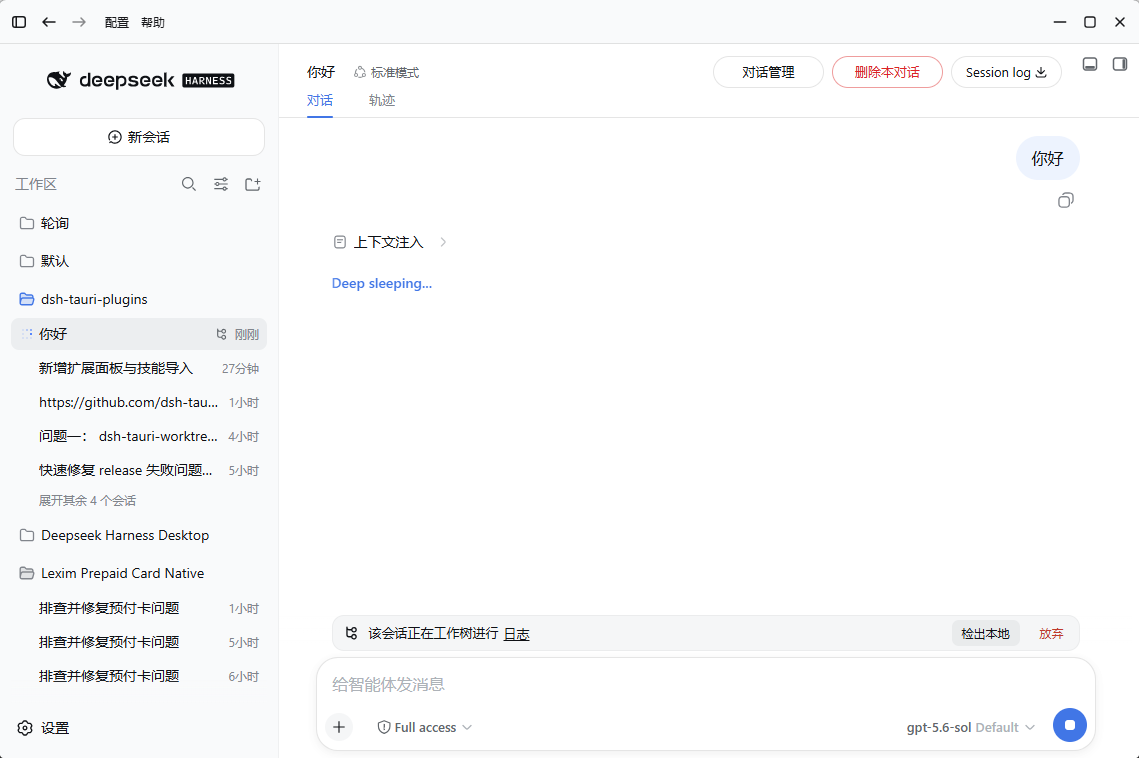
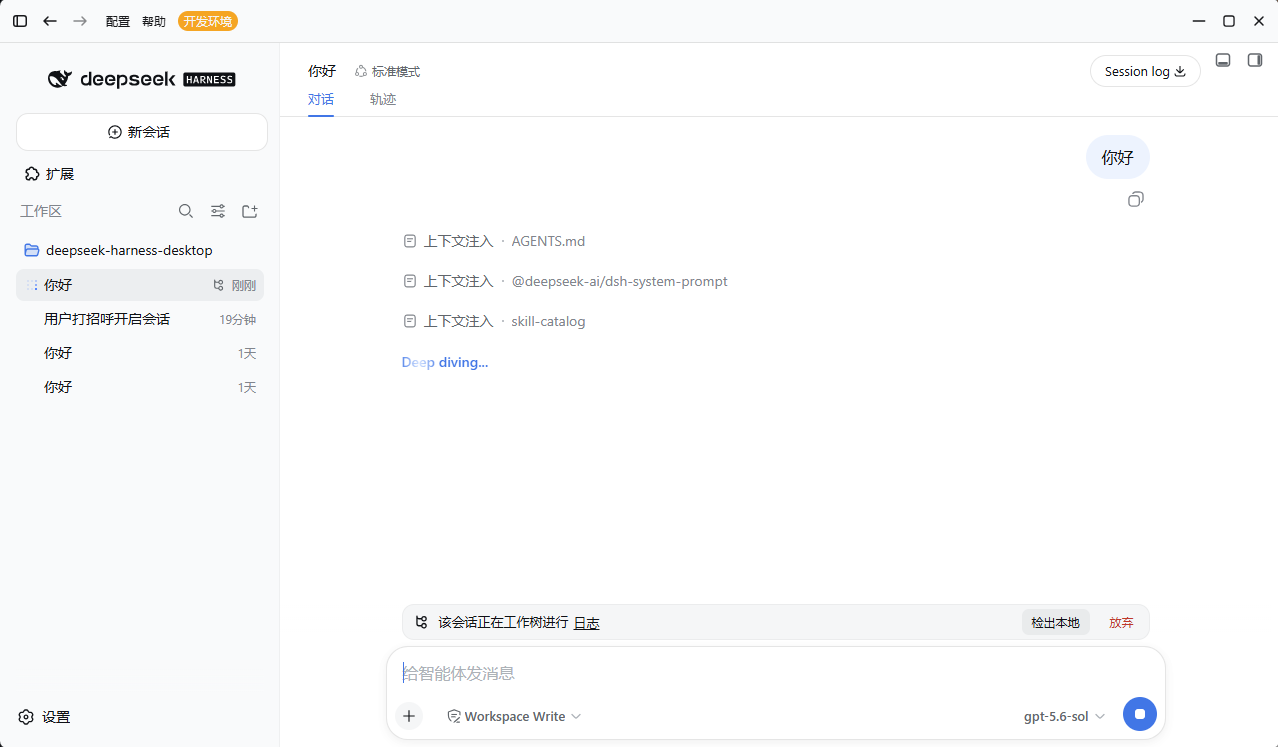
chore: update readme

diff --git a/README.md b/README.md
@@ -31,24 +31,13 @@
 
 <table>
   <tr>
-    <td><img src="docs/images/previews/preview-0.png" alt="preview" width="300" /></td>
-    <td><img src="docs/images/previews/preview-1.png" alt="preview session" width="300" /></td>
-    <td><img src="docs/images/previews/preview-2.png" alt="preview 1" width="300" /></td>
-    <td><img src="docs/images/previews/preview-3.png" alt="preview 2" width="300" /></td>
-    <td><img src="docs/images/previews/preview-4.png" alt="preview 3" width="300" /></td>
-    <td><img src="docs/images/previews/preview-5.png" alt="preview 4" width="300" /></td>
-    <td><img src="docs/images/previews/preview-6.png" alt="preview 4" width="300" /></td>
-    <td><img src="docs/images/previews/preview-7.png" alt="preview 4" width="300" /></td>
-    <td><img src="docs/images/previews/preview-8.png" alt="preview 4" width="300" /></td>
+    <td><a href="docs/PREVIEW.md"><img src="./docs/images/previews/preview-1.png" alt="preview 1" /></a></td>
+    <td><a href="docs/PREVIEW.md"><img src="/docs/images/previews/preview-2.png" alt="preview 2" /></a></td>
+    <td><a href="docs/PREVIEW.md"><img src="/docs/images/previews/preview-4.png" alt="preview 4" /></a></td>
+    <td><a href="docs/PREVIEW.md"><img src="/docs/images/previews/preview-5.png" alt="preview 5" /></a></td>
   </tr>
 </table>
 
-## 功能
-
-- ⚡ **零环境** — 首次启动无须 Node 运行时与 Harness 内核；默认使用本地环境，不修改已有的系统环境。
-- 🔄 **内核更新** — 应用内同步上游最新 Harness 版本，无需重装即生效；支持多版本核心管理。
-- 🖥 **应用配置** — 统一的配置对话框（调试 / 档案 / 插件 / 核心），界面按钮中英双语本地化，并适配暗色模式。
-- 🗂 **档案隔离** — 在应用配置彼此隔离的档案，插件、补丁与设置各自独立，互不干扰。
 - 🧩 **插件管理** — 插件面板管理已安装插件，出现异常时提供升级 / 卸载入口，错误详情。
 - 🎁 **内置插件** — 随安装包内置插件，以及将来引入更多高质量的内置插件。
 - 🪶 **原生轻量** — Tauri 2 外壳（非 Electron）：更小的安装包、更低的内存占用、原生窗口。
@@ -76,19 +65,8 @@
 - [DSH Tauri UI](https://github.com/dsh-tauri-desk/dsh-tauri-ui) — 为 Tauri 2 外壳提供自定义设置侧边栏
 - [DSH Tauri Worktree](https://github.com/dsh-tauri-desk/dsh-tauri-worktree) — 为每个会话创建隔离的 Git Worktree，并支持检出到本地分支或归档放弃
 - [DSH Tauri Panel](https://github.com/dsh-tauri-desk/dsh-tauri-plugins/tree/main/packages/dsh-tauri-panel) — 侧栏外壳、面板协议
-- [DSH Tauri Panel Extension](https://github.com/dsh-tauri-desk/dsh-tauri-plugins/tree/main/packages/dsh-tauri-panel-extension) — 技能与 MCP 管理
-
-## 快速开始
-
-从 [Releases](https://github.com/hairyf/deepseek-harness-desktop/releases) 下载对应平台安装包，安装后启动即可。
-
-**macOS（Homebrew）：** 也可通过 Homebrew 一键安装：
-
-```bash
-brew install dsh-tauri-desk/desktop/deepseek-harness
-```
-
-首次运行会下载 Node 运行时与 Harness 内核（如已经安装 `dsh` ，则使用安装版本），随后直接进入 `http://127.0.0.1:3080` 的 Harness 界面；此后完全本地运行，无需联网。
+- [DSH Tauri Panel Extension](https://github.com/dsh-tauri-desk/dsh-tauri-plugins/tree/main/packages/dsh-tauri-panel-extens- 更多即将引入的插件...
+经安装 `dsh` ，则使用安装版本），随后直接进入 `http://127.0.0.1:3080` 的 Harness 界面；此后完全本地运行，无需联网。
 
 **系统要求：** Windows 10+ · macOS 10.15+ · Linux（AppImage / .deb）· 首次运行需要网络
 

diff --git a/README.en.md b/README.en.md
@@ -31,15 +31,10 @@
 
 <table>
   <tr>
-    <td><img src="docs/images/previews/preview-0.png" alt="preview" width="300" /></td>
-    <td><img src="docs/images/previews/preview-1.png" alt="preview session" width="300" /></td>
-    <td><img src="docs/images/previews/preview-2.png" alt="preview 1" width="300" /></td>
-    <td><img src="docs/images/previews/preview-3.png" alt="preview 2" width="300" /></td>
-    <td><img src="docs/images/previews/preview-4.png" alt="preview 3" width="300" /></td>
-    <td><img src="docs/images/previews/preview-5.png" alt="preview 4" width="300" /></td>
-    <td><img src="docs/images/previews/preview-6.png" alt="preview 4" width="300" /></td>
-    <td><img src="docs/images/previews/preview-7.png" alt="preview 4" width="300" /></td>
-    <td><img src="docs/images/previews/preview-8.png" alt="preview 4" width="300" /></td>
+    <td><a href="docs/PREVIEW.md"><img src="./docs/images/previews/preview-1.png" alt="preview 1" /></a></td>
+    <td><a href="docs/PREVIEW.md"><img src="/docs/images/previews/preview-2.png" alt="preview 2" /></a></td>
+    <td><a href="docs/PREVIEW.md"><img src="/docs/images/previews/preview-4.png" alt="preview 4" /></a></td>
+    <td><a href="docs/PREVIEW.md"><img src="/docs/images/previews/preview-5.png" alt="preview 5" /></a></td>
   </tr>
 </table>
 

diff --git a/docs/PREVIEW.md b/docs/PREVIEW.md
@@ -1,7 +1,16 @@
+# Preview Gallery
 
-![preview](images/preview.png)
-![preview](images/preview.session.png)
-![preview](images/preview-1.png)
-![preview](images/preview-2.png)
-![preview](images/preview-3.png)
-![preview](images/preview-4.png)
+| Preview 0 | Preview 1 | Preview 2 |
+| :---: | :---: | :---: |
+| ![preview 0](./images/previews/preview-0.png) | ![preview 1](./images/previews/preview-1.png) | ![preview 2](./images/previews/preview-2.png) |
+
+| Preview 3 | Preview 4 | Preview 5 |
+| :---: | :---: | :---: |
+| ![preview 3](./images/previews/preview-3.png) | ![preview 4](./images/previews/preview-4.png) | ![preview 5](./images/previews/preview-5.png) |
+
+| Preview 6 | Preview 7 | Preview 8 |
+| :---: | :---: | :---: |
+| ![preview 6](./images/previews/preview-6.png) | ![preview 7](./images/previews/preview-7.png) | ![preview 8](./images/previews/preview-8.png) |
+
+---
+[← Back to Github Repository](../README.md)
